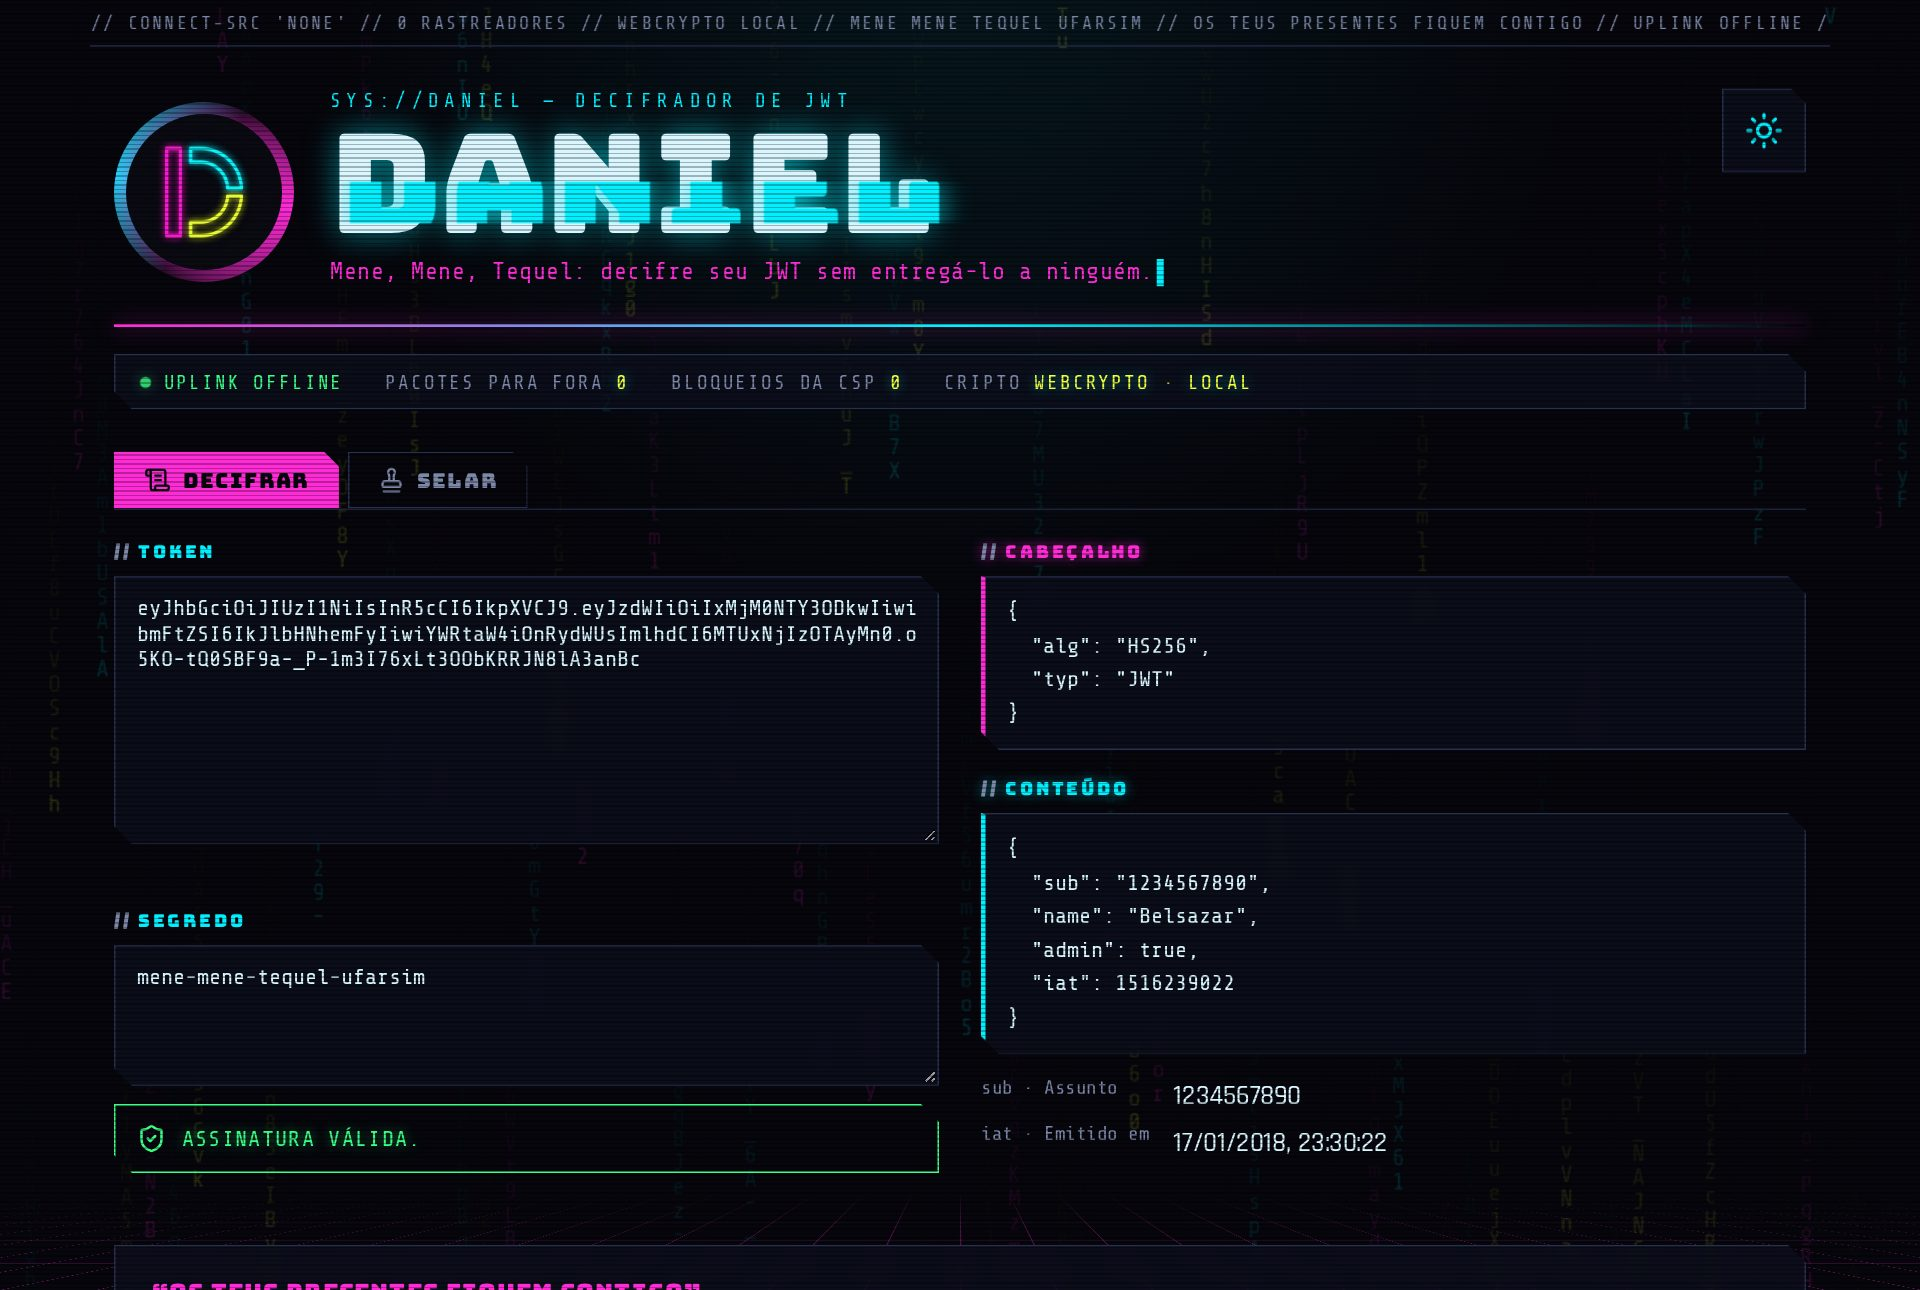
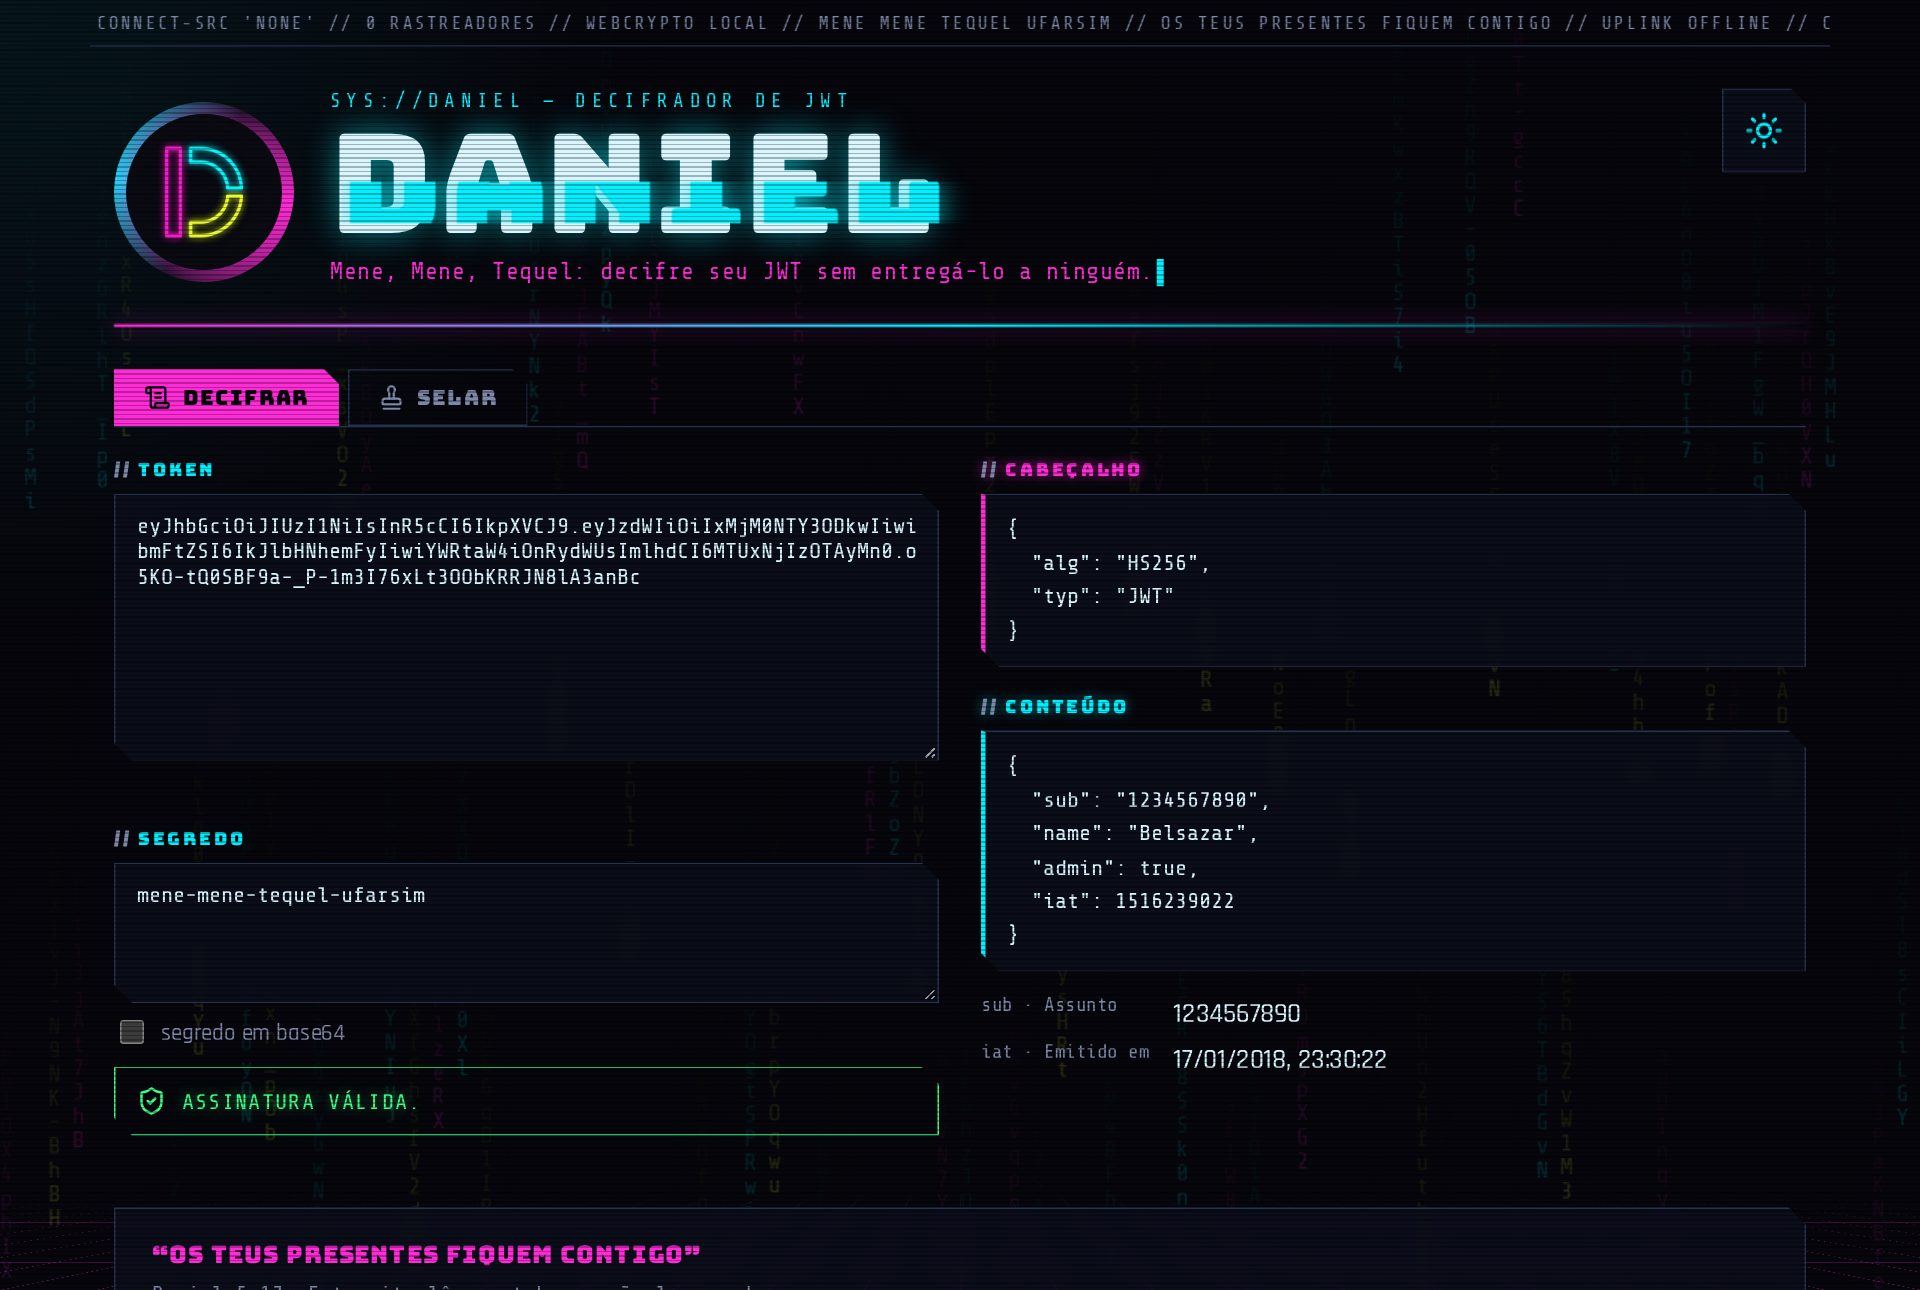
style: remove o painel abaixo do cabeçalho
Os contadores de rede e de bloqueios da CSP vão para o painel de
transparência no fim da página.

diff --git a/index.html b/index.html
@@ -45,13 +45,6 @@
     <button id="theme" class="theme" type="button"></button>
   </header>
 
-  <div class="hud">
-    <span class="hud-live"><i class="dot"></i>uplink offline</span>
-    <span>pacotes para fora <strong id="t-requests">0</strong></span>
-    <span>bloqueios da CSP <strong id="t-blocked">0</strong></span>
-    <span>cripto <strong>webcrypto · local</strong></span>
-  </div>
-
   <div class="tabs" role="tablist">
     <button type="button" role="tab" data-tab="decode" aria-selected="true"><span data-icon="decode"></span>Decifrar</button>
     <button type="button" role="tab" data-tab="encode" aria-selected="false"><span data-icon="encode"></span>Selar</button>
@@ -109,7 +102,7 @@
     <ul>
       <li>Tudo roda no seu navegador, com a WebCrypto nativa. Sem servidor, API, cookie, analytics ou dependência em produção.</li>
       <li>A política de segurança (CSP) proíbe qualquer conexão: <code>connect-src 'none'</code>.</li>
-      <li>O painel no topo mede, ao vivo, os pacotes enviados para fora e os bloqueios da CSP.</li>
+      <li>Ao vivo: pacotes para fora <strong id="t-requests">0</strong> · bloqueios da CSP <strong id="t-blocked">0</strong></li>
       <li>Leia antes de colar seu token:
         <a href="https://github.com/stanleygomes/daniel-jwt/tree/master/src/jwt">src/jwt</a> (criptografia, ~150 linhas) e
         <a href="https://github.com/stanleygomes/daniel-jwt/tree/master/src/ui">src/ui</a> (tela e efeitos).

diff --git a/src/ui/style.css b/src/ui/style.css
@@ -282,40 +282,6 @@ output {
   animation: blink 1s steps(1) infinite;
 }
 
-/* ---------- HUD ---------- */
-.hud {
-  display: flex;
-  flex-wrap: wrap;
-  gap: 8px 28px;
-  margin-top: 18px;
-  padding: 10px 16px;
-  border: 1px solid var(--line);
-  background: var(--panel);
-  clip-path: var(--corners);
-  color: var(--muted);
-  font: 13px var(--mono);
-  text-transform: uppercase;
-  letter-spacing: 0.12em;
-}
-.hud strong {
-  color: var(--yellow);
-  font-weight: 400;
-  text-shadow: 0 0 8px var(--glow-c);
-}
-.hud-live {
-  color: var(--ok);
-}
-.dot {
-  display: inline-block;
-  width: 8px;
-  height: 8px;
-  margin-right: 8px;
-  border-radius: 50%;
-  background: var(--ok);
-  box-shadow: 0 0 10px var(--glow-ok);
-  animation: pulse 1.6s ease-in-out infinite;
-}
-
 /* ---------- botões e abas ---------- */
 button {
   display: inline-flex;
@@ -611,6 +577,11 @@ label.check input {
   margin: 10px 0;
   padding-left: 20px;
 }
+.ledger strong {
+  color: var(--yellow);
+  font-family: var(--mono);
+  font-weight: 400;
+}
 .ledger li {
   margin: 6px 0;
 }
@@ -698,12 +669,6 @@ footer p {
 @keyframes blink {
   50% {
     opacity: 0;
-  }
-}
-@keyframes pulse {
-  50% {
-    opacity: 0.35;
-    transform: scale(0.75);
   }
 }
 @keyframes spin {

diff --git a/README.md b/README.md
@@ -21,13 +21,14 @@ Este site lê seu token e não leva nada. Não confie: confira. Tudo o que está
 | **Código pequeno e aberto** | A criptografia inteira cabe em [`src/jwt/`](src/jwt) (~150 linhas). A tela fica em [`src/ui/`](src/ui). O JS publicado não importa nada de fora. |
 | **Build rastreável** | Cada release tem atestação de proveniência assinada pelo GitHub. O rodapé mostra a versão e o commit no ar, com link para o código exato. |
 
-### O painel no topo da tela
+### Contadores ao vivo
 
-| Item | O que mostra |
+No painel de transparência, no fim da página:
+
+| Contador | O que mede |
 | --- | --- |
-| **Pacotes para fora** | Quantos arquivos a página baixou de outro domínio, medido ao vivo (`PerformanceObserver`, o mesmo dado da aba Network). Deve ficar em 0. |
+| **Pacotes para fora** | Quantos arquivos a página baixou de outro domínio (`PerformanceObserver`, o mesmo dado da aba Network). Deve ficar em 0. |
 | **Bloqueios da CSP** | Quantas vezes o navegador barrou algo proibido, como uma tentativa de enviar dados. Se alguém adulterar o JS para vazar seu token, sobe. |
-| **Uplink offline** / **Cripto webcrypto · local** | Rótulos fixos: lembram as garantias acima, não medem nada. |
 
 ### Confira você mesmo
 
